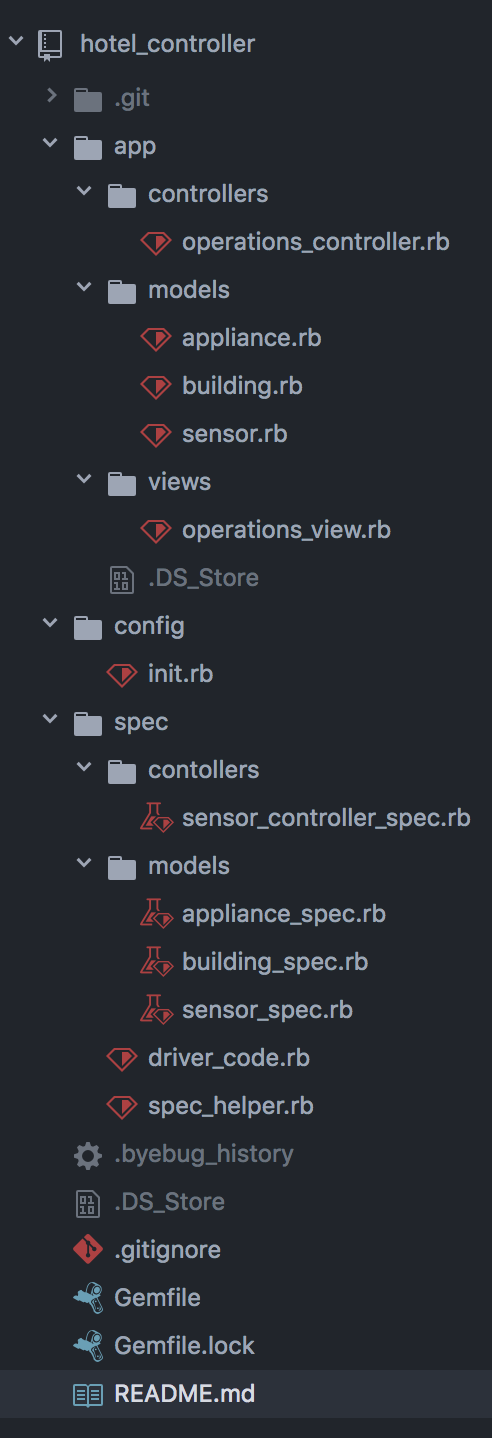
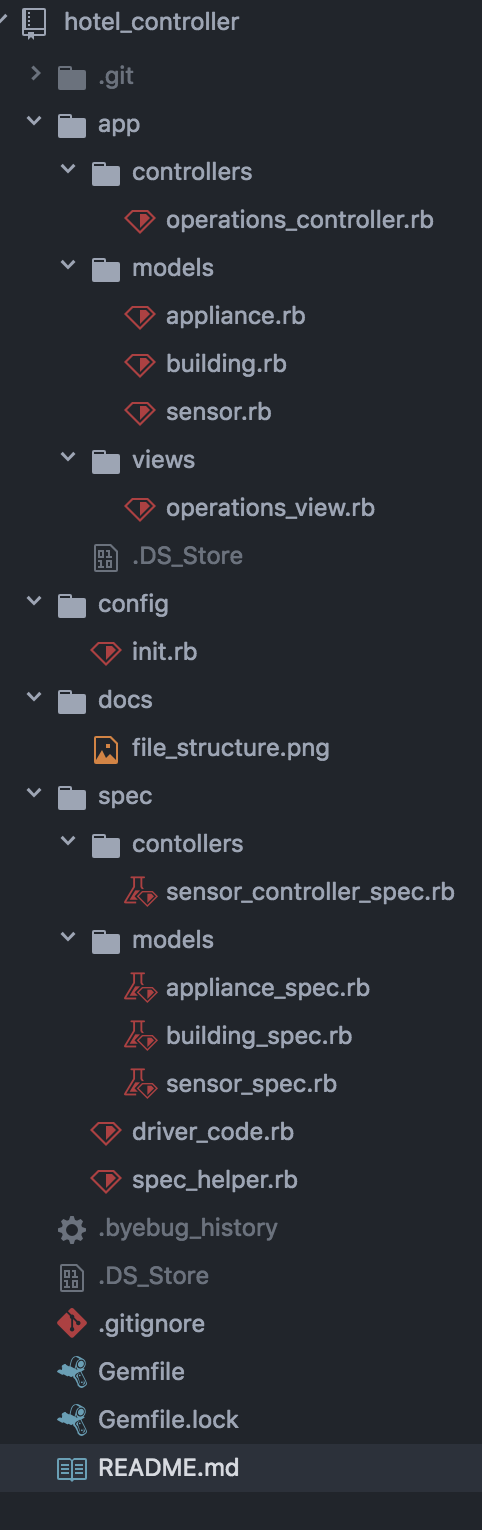
Documentation.

diff --git a/README.md b/README.md
@@ -108,6 +108,42 @@ Floor 2
         AC : ON
 ```
 
+## Description of the Solution Presented
+I wanted to solve this problem by creating a system that responds to 3 simple
+configuration objects allowing for flexibility.
+One of my objectives was to use the MVC Patter as system architecture and the
+Observable Patter for system communication.
+My approach was to create the least amount of models as possible. One controller
+and one view.
+
+## Challenges
+Due to the the relations between building structure, sensors and appliances their
+individual and collective logic it was hard to keep the code at a minimum level
+of development.
+Because of time limitation the code presents a lack of validations, it does not
+account for all possible edge cases and the test suite is incomplete. I included
+comments to simplify code review.
+
+
+## Run and Test
+### Depencies
+* Ruby Computer Language
+* Ruby Gem Bundle
+
+On root folder:
+`> bunble install`
+
+Run test suite:
+`> rspec`
+
+Run test driver code:
+`> ruby spec/driver_code.rb`
+
+## File Structure
+I organized the files in a Ruby on Rails fashion.  
+![alt text](docs/file_structure.png)
+
+
 ## Initial configuration
 The created system takes this constants start and create model instances.
 
